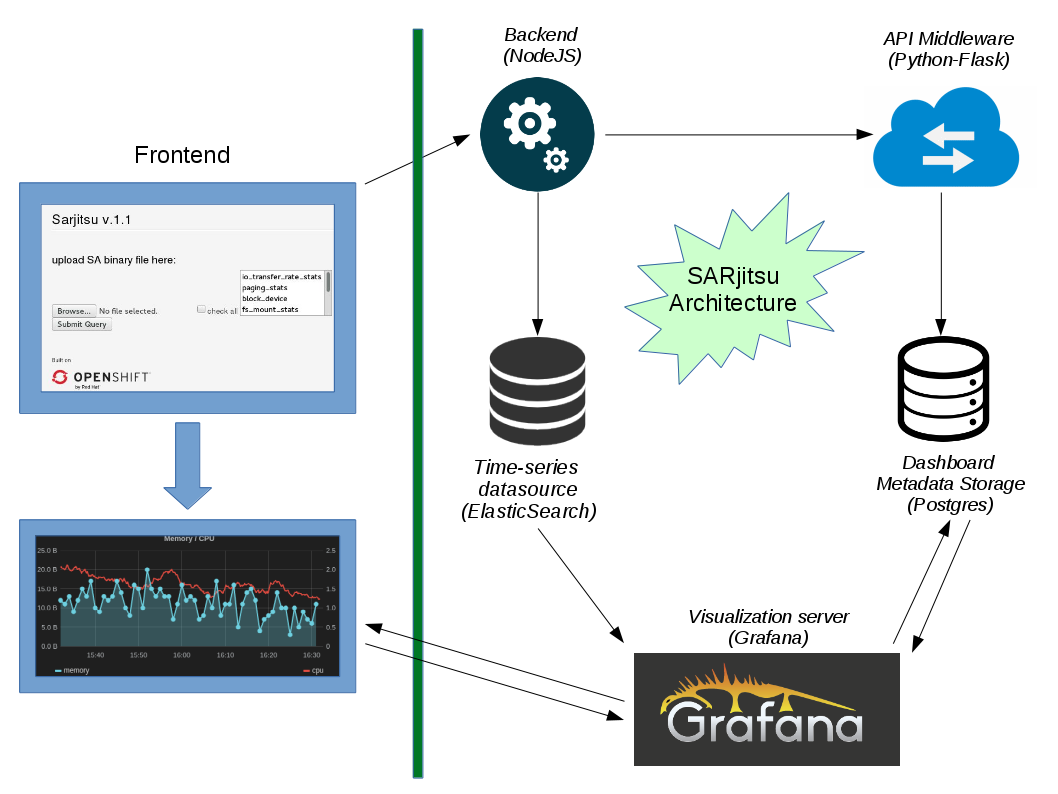
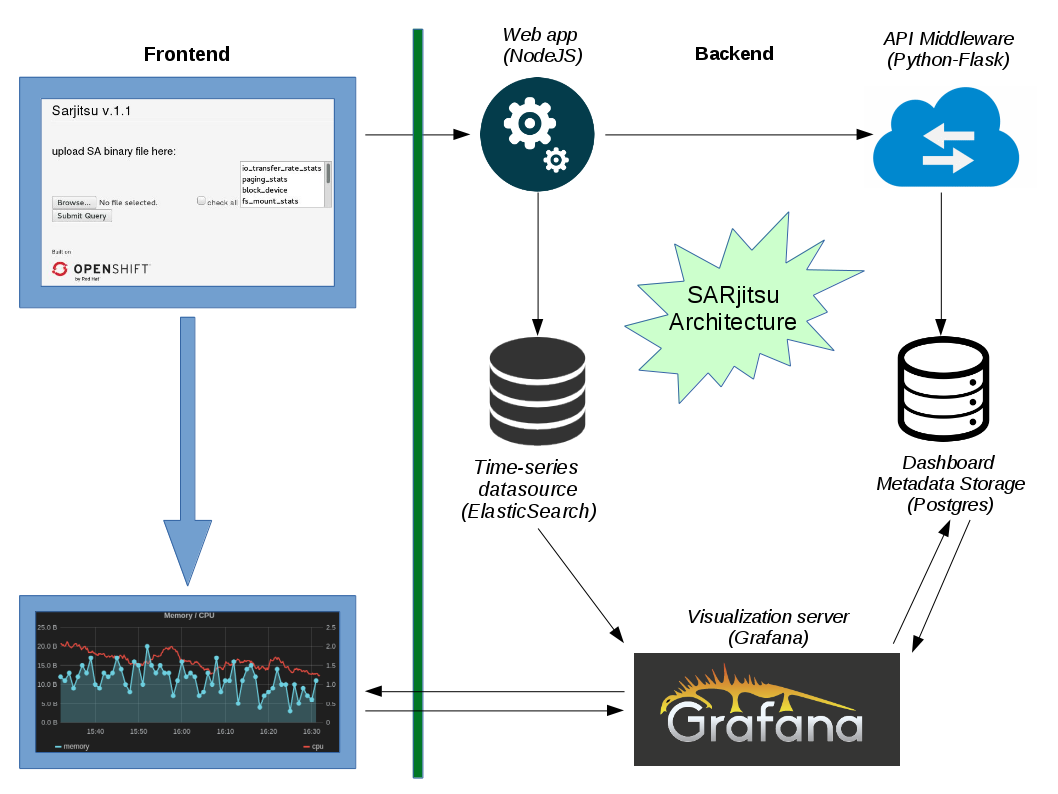
update architecture image; fix results page

diff --git a/lib/backend/src/extract-sa.js b/lib/backend/src/extract-sa.js
@@ -106,14 +106,11 @@ module.exports = {
                     sarObj.stdout.on('close', function(){
                         util.log('[ES data ingested] -- ' + zcache["session_data"][req.sessionID]["nodename"]);
                         if (!!zcache["session_data"][req.sessionID]["nodename"]) {
-                            // res.write("<br/><br/><b>Output</b><br/><pre>");
-                            // res.write(result_ingestion);
                             function callback(ff){
                               grep('dashboard_url', '/etc/sar-index.cfg', function(list){
                                 var _tmp = list[0].results[0];
                                 var line = _tmp.line_number + ":" + _tmp.line;
                                 grafana_endpoint = line.split('dashboard_url = ')[1];
-                                // console.log('inside: ' + grafana_endpoint);
                                 ff();
                               });
                             };
@@ -122,9 +119,9 @@ module.exports = {
                               res.write("Success! <u>Nodename: <b>" +
                                         zcache["session_data"][req.sessionID]["nodename"] + "</b></u>");
                               res.write("<p>kindly go to <a href='" + grafana_endpoint +
-                                        "'>this Grafana instance</a> and login with <pre>admin/admin</pre>" +
-                                        " to find content for your nodename result..</p>");
-                              // console.log('outside: ' + grafana_endpoint);
+                                        "'>this Grafana homepage</a> and login with <pre>admin/admin</pre>" +
+                                        " to find content for your nodename's result.. <br/>" +
+					"(Click on the dropdown menu 'Home' in grafana homepage to find your dashboard) </p>");
                               res.end();
                             });
                         } else {
